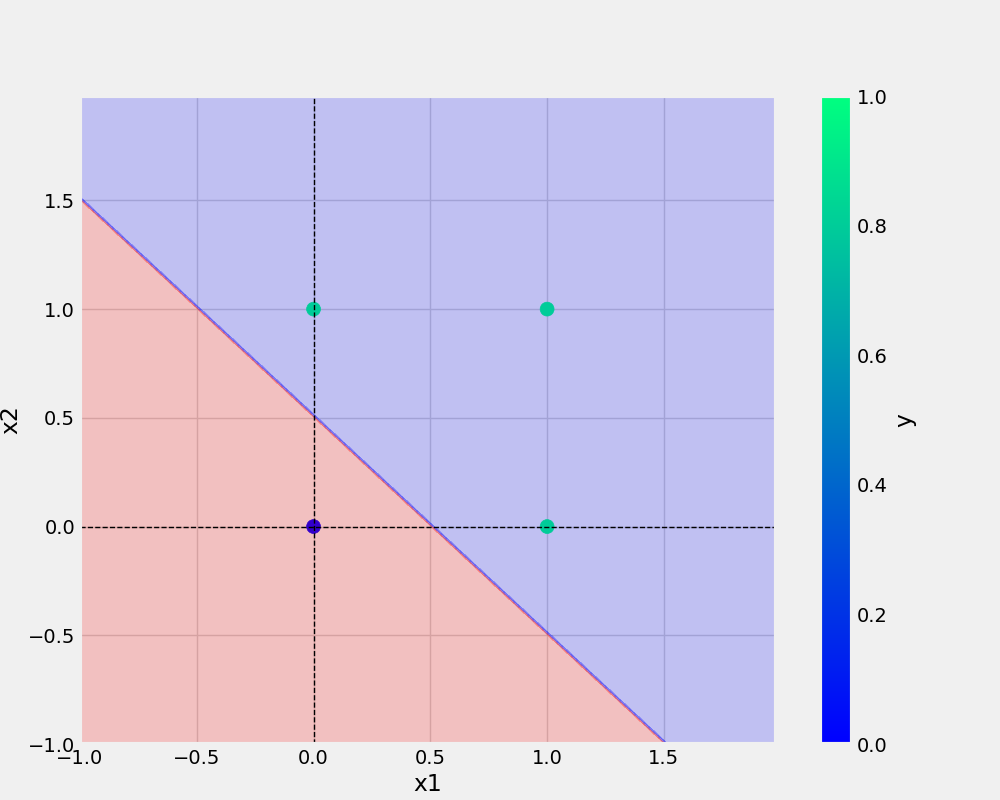
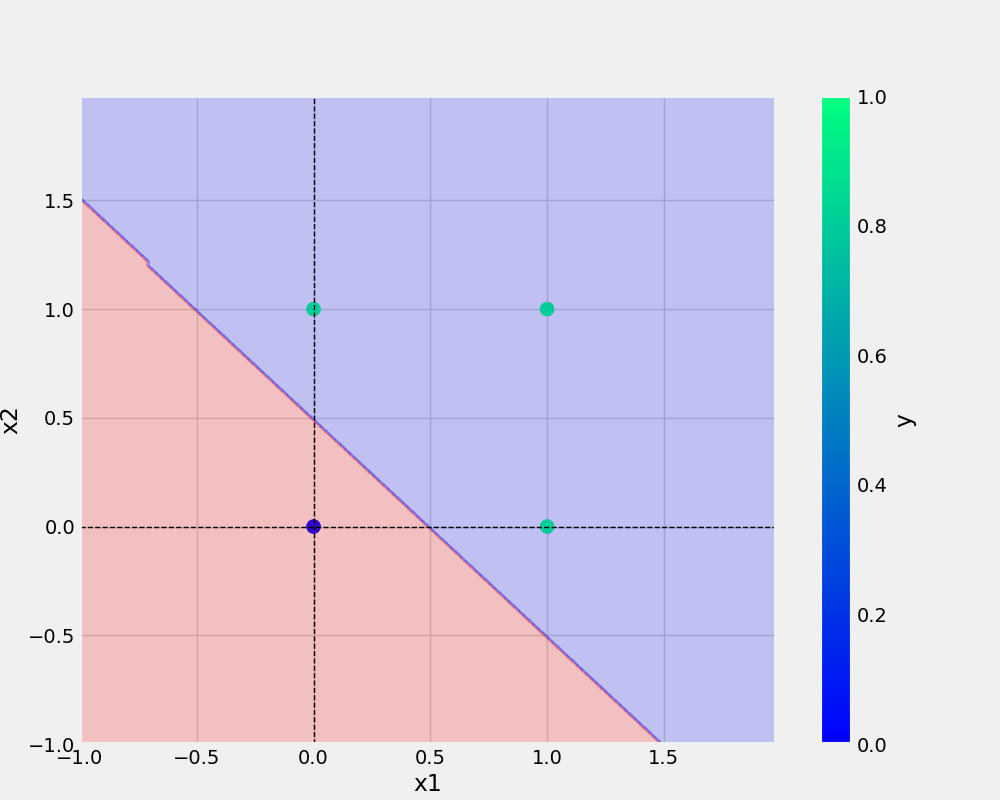
implemented the logging and added tqdm

diff --git a/utils/all_utils.py b/utils/all_utils.py
@@ -4,6 +4,7 @@ import pandas as pd
 import joblib # FOR SAVING MY MODEL AS A BINARY FILE
 from matplotlib.colors import ListedColormap
 import os
+import logging
 
 plt.style.use("fivethirtyeight")
 
@@ -16,6 +17,7 @@ def prepare_data(df):
   Returns:
      tuple: it returns the tuples of dependent variables and independent variables
   """
+  logging.info("preparing the data by segregating the dependent and independent variables")
   X = df.drop("y", axis=1)
   y = df["y"]
   return X, y
@@ -27,14 +29,17 @@ def save_model(model, filename):
       model (python object): trained model to 
       filename (str): path to save the trained model
   """
+  logging.info("saving the trained model")
   model_dir = "models"
   os.makedirs(model_dir, exist_ok=True) # ONLY CREATE IF MODEL_DIR DOESN"T EXISTS
   filePath = os.path.join(model_dir, filename) # model/filename
   joblib.dump(model, filePath)
+  logging.info(f"saved the trained model{filePath}")
 
 def save_plot(df, file_name, model):
 
   def _create_base_plot(df):
+    logging.info("creating the base plot")
     df.plot(kind="scatter", x="x1", y="x2", c="y", s=100, cmap="winter")
     plt.axhline(y=0, color="black", linestyle="--", linewidth=1)
     plt.axvline(x=0, color="black", linestyle="--", linewidth=1)
@@ -42,6 +47,7 @@ def save_plot(df, file_name, model):
     figure.set_size_inches(10, 8)
 
   def _plot_decision_regions(X, y, classfier, resolution=0.02):
+    logging.info("plotting the decision regions")
     colors = ("red", "blue", "lightgreen", "gray", "cyan")
     cmap = ListedColormap(colors[: len(np.unique(y))])
 
@@ -74,3 +80,4 @@ def save_plot(df, file_name, model):
   os.makedirs(plot_dir, exist_ok=True) # ONLY CREATE IF MODEL_DIR DOESN"T EXISTS
   plotPath = os.path.join(plot_dir, file_name) # model/filename
   plt.savefig(plotPath)
+  logging.info(f"saving the plot at {plotPath}")

diff --git a/utils/model.py b/utils/model.py
@@ -1,8 +1,10 @@
 import numpy as np
+import logging
+from tqdm import tqdm
 class Perceptron:
   def __init__(self, eta, epochs):
     self.weights = np.random.randn(3) * 1e-4 # SMALL WEIGHT INIT
-    print(f"initial weights before training: \n{self.weights}")
+    logging.info(f"initial weights before training: \n{self.weights}")
     self.eta = eta # LEARNING RATE
     self.epochs = epochs 
 
@@ -16,20 +18,20 @@ class Perceptron:
     self.y = y
 
     X_with_bias = np.c_[self.X, -np.ones((len(self.X), 1))] # CONCATINATION
-    print(f"X with bias: \n{X_with_bias}")
+    logging.info(f"X with bias: \n{X_with_bias}")
 
-    for epoch in range(self.epochs):
-      print("--"*10)
-      print(f"for epoch: {epoch}")
-      print("--"*10)
+    for epoch in tqdm(range(self.epochs),total=self.epochs,desc="training the model"):
+      logging.info("--"*10)
+      logging.info(f"for epoch: {epoch}")
+      logging.info("--"*10)
 
       y_hat = self.activationFunction(X_with_bias, self.weights) # foward propagation
-      print(f"predicted value after forward pass: \n{y_hat}")
+      logging.info(f"predicted value after forward pass: \n{y_hat}")
       self.error = self.y - y_hat
-      print(f"error: \n{self.error}")
+      logging.info(f"error: \n{self.error}")
       self.weights = self.weights + self.eta * np.dot(X_with_bias.T, self.error) # backward propagation
-      print(f"updated weights after epoch:\n{epoch}/{self.epochs} : \n{self.weights}")
-      print("#####"*10)
+      logging.info(f"updated weights after epoch:\n{epoch}/{self.epochs} : \n{self.weights}")
+      logging.info("#####"*10)
 
 
   def predict(self, X):
@@ -38,5 +40,5 @@ class Perceptron:
 
   def total_loss(self):
     total_loss = np.sum(self.error)
-    print(f"total loss: {total_loss}")
+    logging.info(f"total loss: {total_loss}")
     return total_loss

diff --git a/or.py b/or.py
@@ -2,27 +2,46 @@ from utils.model import Perceptron
 from utils.all_utils import prepare_data, save_plot, save_model
 import pandas as pd
 import numpy as np
+import logging
+import os
+
+logging_str="[%(asctime)s: %(levelname)s: %(module)s: %(message)s]"
+
+log_dir="logs"
+os.makedirs(log_dir,exist_ok=True)
+logging.basicConfig(filename=os.path.join(log_dir,"running_logs.log"),level=logging.INFO,format=logging_str)
+
+def main(data, modelName, plotName, eta, epochs):
+    df = pd.DataFrame(OR)
+
+    print(df)
+
+    X,y = prepare_data(df)
+
+ 
+
+    model = Perceptron(eta=ETA, epochs=EPOCHS)
+    model.fit(X, y)
+
+    _ = model.total_loss()
+
+    save_model(model, filename="or.model")
+    save_plot(df, "or.png", model)
+if __name__ == "__main__":
+
+    OR = {
+        "x1": [0,0,1,1],
+        "x2": [0,1,0,1],
+        "y": [0,1,1,1],
+    }
+    ETA = 0.3 # 0 and 1
+    EPOCHS = 1000
+    try:
+        logging.info(">>> starting the training >>>>")
+        main(data=OR, modelName="or.model", plotName="or.png", eta=ETA, epochs=EPOCHS)
+        logging.info("<<< trainif done successfully<<<<")
+    except Exception as e:
+        logging.exception(e)
+        raise e
 
 
-OR = {
-    "x1": [0,0,1,1],
-    "x2": [0,1,0,1],
-    "y": [0,1,1,1],
-}
-
-df = pd.DataFrame(OR)
-
-print(df)
-
-X,y = prepare_data(df)
-
-ETA = 0.3 # 0 and 1
-EPOCHS = 10
-
-model = Perceptron(eta=ETA, epochs=EPOCHS)
-model.fit(X, y)
-
-_ = model.total_loss()
-
-save_model(model, filename="or.model")
-save_plot(df, "or.png", model)
